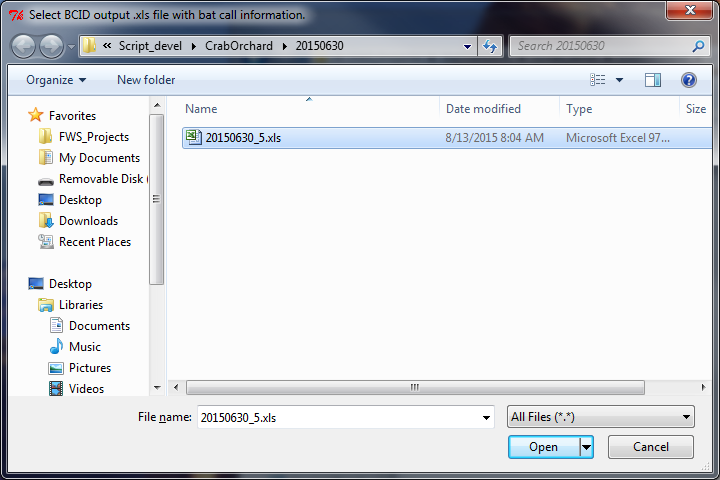
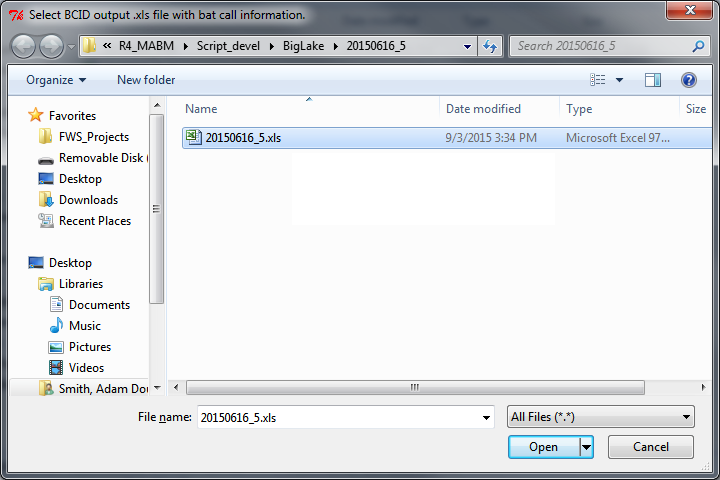
Update README to illustrate scrubbing

diff --git a/README.md b/README.md
@@ -22,7 +22,7 @@ Basic operations are illustrated below. For details on the arguments and options
 
 ### Georeferencing bat detections
 
-Typically the `MABM_route` function will be used to join an Excel spreadsheet of bat detection classifications created by Bat Call Identification ([BCID](http://www.batcallid.com)) with a GPS fix collected simultaneously, in effect georeferencing identified calls, and prepare the bat call classifications for import in the the MABM program Access database. In addition to the delimited text file for database import, the function creates three ESRI shapefiles for detailed QA/QC of the bat survey route: a point shapefile of the GPS log, a route (line) shapefile that connects all GPS fixes chronologically into a single shape, and a point shapefile of each georeferenced bat detection.
+Typically the `MABM_route` function will be used to join an Excel spreadsheet of bat detection classifications created by Bat Call Identification ([BCID](http://www.batcallid.com)) with a text file of GPS fixes collected simultaneously. In short, the function georeferences bat calls recorded along the route and prepares a *.csv file of georeferenced bat call classifications for import in the the MABM program Access database. In addition to the *.csv file for database import, the function creates three ESRI shapefiles for detailed QA/QC of the bat survey route: a point shapefile of the GPS log, a route (line) shapefile that connects all GPS fixes chronologically into a single shape, and a point shapefile of each georeferenced bat detection. Finally, the default settings look within the selected directory for [Anabat](http://www.titley-scientific.com/us/index.php/anabat-bat-detector) audio files that have been generated by [CF Read](http://www.titley-scientific.com/us/index.php/software_firmware) and move those files not classified by BCID (and thus suspected as noise based on user settings in CF Read) into a separate subdirectory.
 
 This is the output produced when using the default options and can be accomplished by calling the function with no listed arguments:
 
@@ -30,7 +30,7 @@ This is the output produced when using the default options and can be accomplish
 MABM_route()
 ```
 
-First a dialog box opens that asks the user to specify the MABM route from which the data were collected (NOTE: some "locations" have multiple routes, so choose wisely). In this example, we select Crab Orchard NWR (route 1). The abbreviation for the selected route (e.g., "CroNWR1") will be used (with the date of the survey) to name the resulting files.
+First a dialog box opens that asks the user to specify the MABM route from which the data were collected (NOTE: some "locations" have multiple routes, so choose wisely). In this example, we select Big Lake NWR. The abbreviation for the selected route (e.g., "BglNWR") will be used (with the date of the survey) to name the resulting files.
 
 ![Choose your survey route](./README-figs/choose_route.png)
 
@@ -42,7 +42,7 @@ A third and final dialog box asks for the Microsoft Excel file produced by the B
 
 ![Choose the BCID Excel file](./README-figs/choose_BCID.png)
 
-Once these are selected, the function creates a new directory in the same folder as the GPS text file that contains a comma-delimited (\*.csv) text file that can be directly imported into the MABM Access database and three shapefiles as described above. The user is alerted of this activity in the R console:
+Once these are selected, the function creates a new directory in the same folder as the GPS text file that contains a comma-delimited (\*.csv) text file that can be directly imported into the MABM Access database and three shapefiles as described above. Suspected noise files are scrubbed (moved) to a new subdirectory; if no Anabat files or suspected noise files are detected in the directory, scrubbing is ignored. The user is alerted of this activity in the R console:
 
 ![Finished!](./README-figs/all_done.png)
 
@@ -52,7 +52,7 @@ With the survey route shapefiles created, the `plot_MABM_route` function allows 
 
 There is only a single argument the user is likely to specify --- how to define a "bad" GPS fix for a bat call detection (`badgps`; default is no GPS fix within 5 seconds of the detection).
 
-For the Crab Orchard route we georeferenced, we can visualize the route and bat detections using the default options with:
+For the Big Lake route we georeferenced, we can visualize the route and bat detections using the default options with:
 
 ``` r
 plot_MABM_route()
@@ -68,7 +68,7 @@ This produces an interactive plot of the route and bat detections (view an inter
 
 ![Output](./README-figs/plot_output.png)
 
-A choice of a terrain or aerial imagery basemap is available.
+A choice of a terrain or aerial imagery basemap is available; aerial imagery has been toggled on in this example.
 
 The route is shaded with a gradient indicating how much time (in minutes) has elapsed since the GPS acquired its first fix; the beginning of the route is blue and transitions to red at its completion. Large gaps in the route (e.g., due to GPS failure) should be apparent if they are present. Clicking on a GPS point along the route provides some information regarding that point (e.g., date, time, elapsed time since survey start).
 
